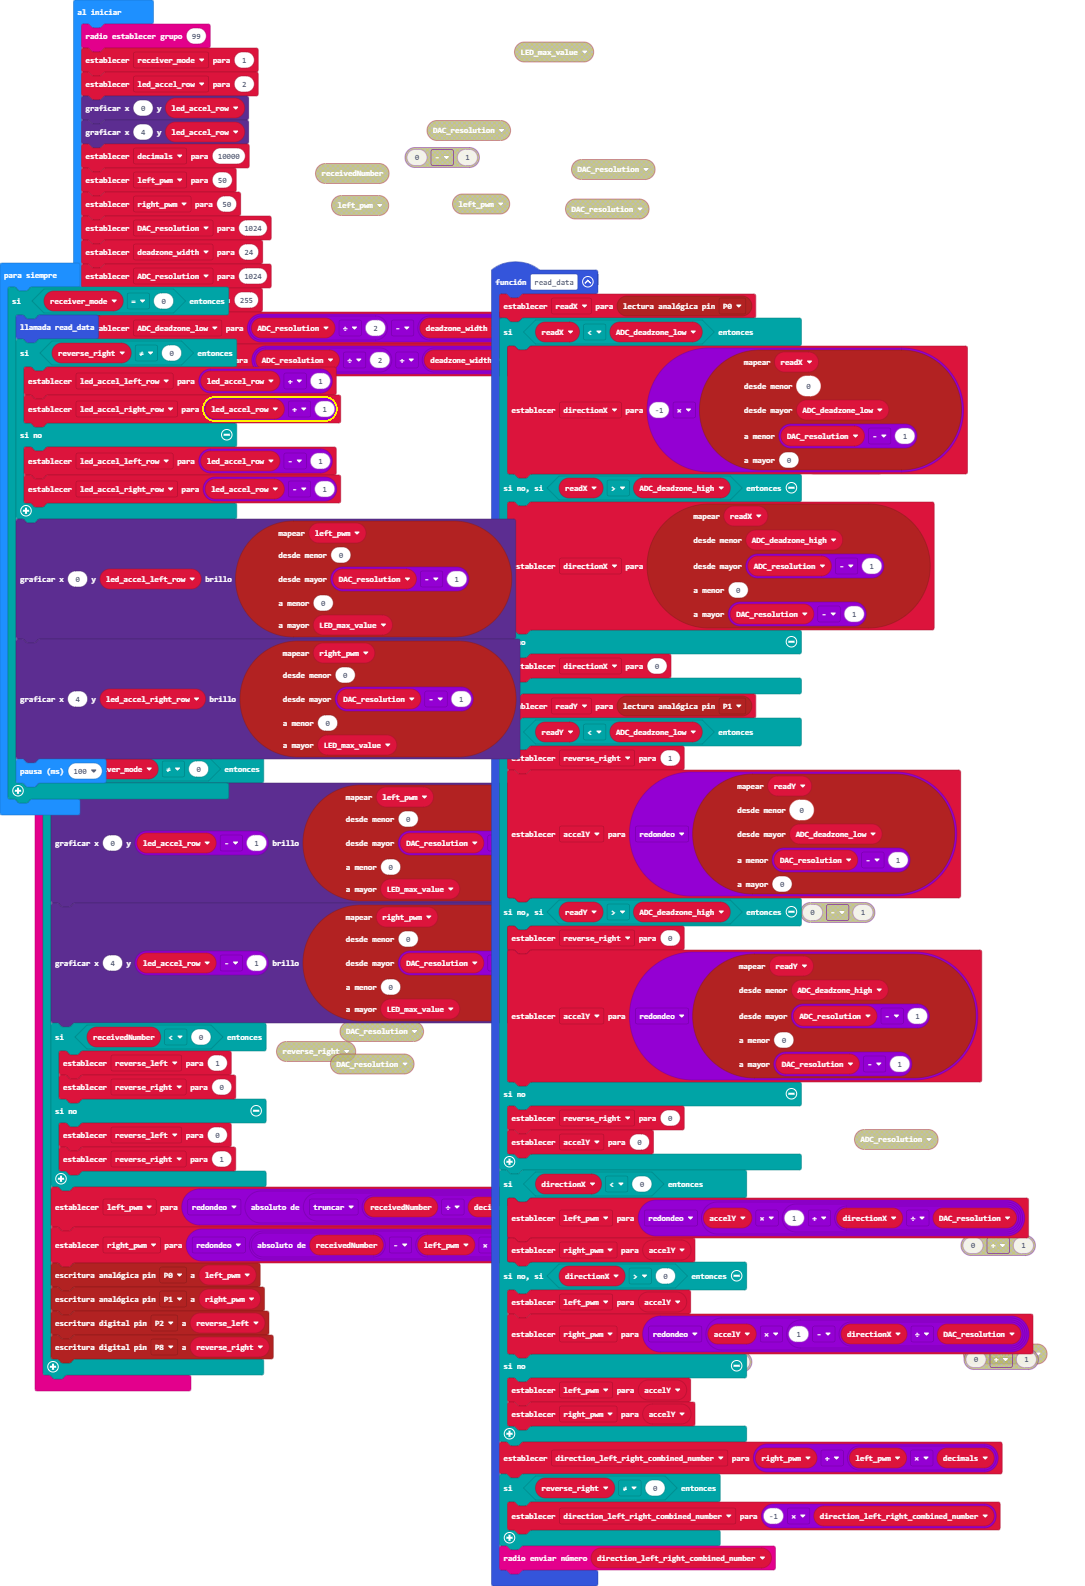
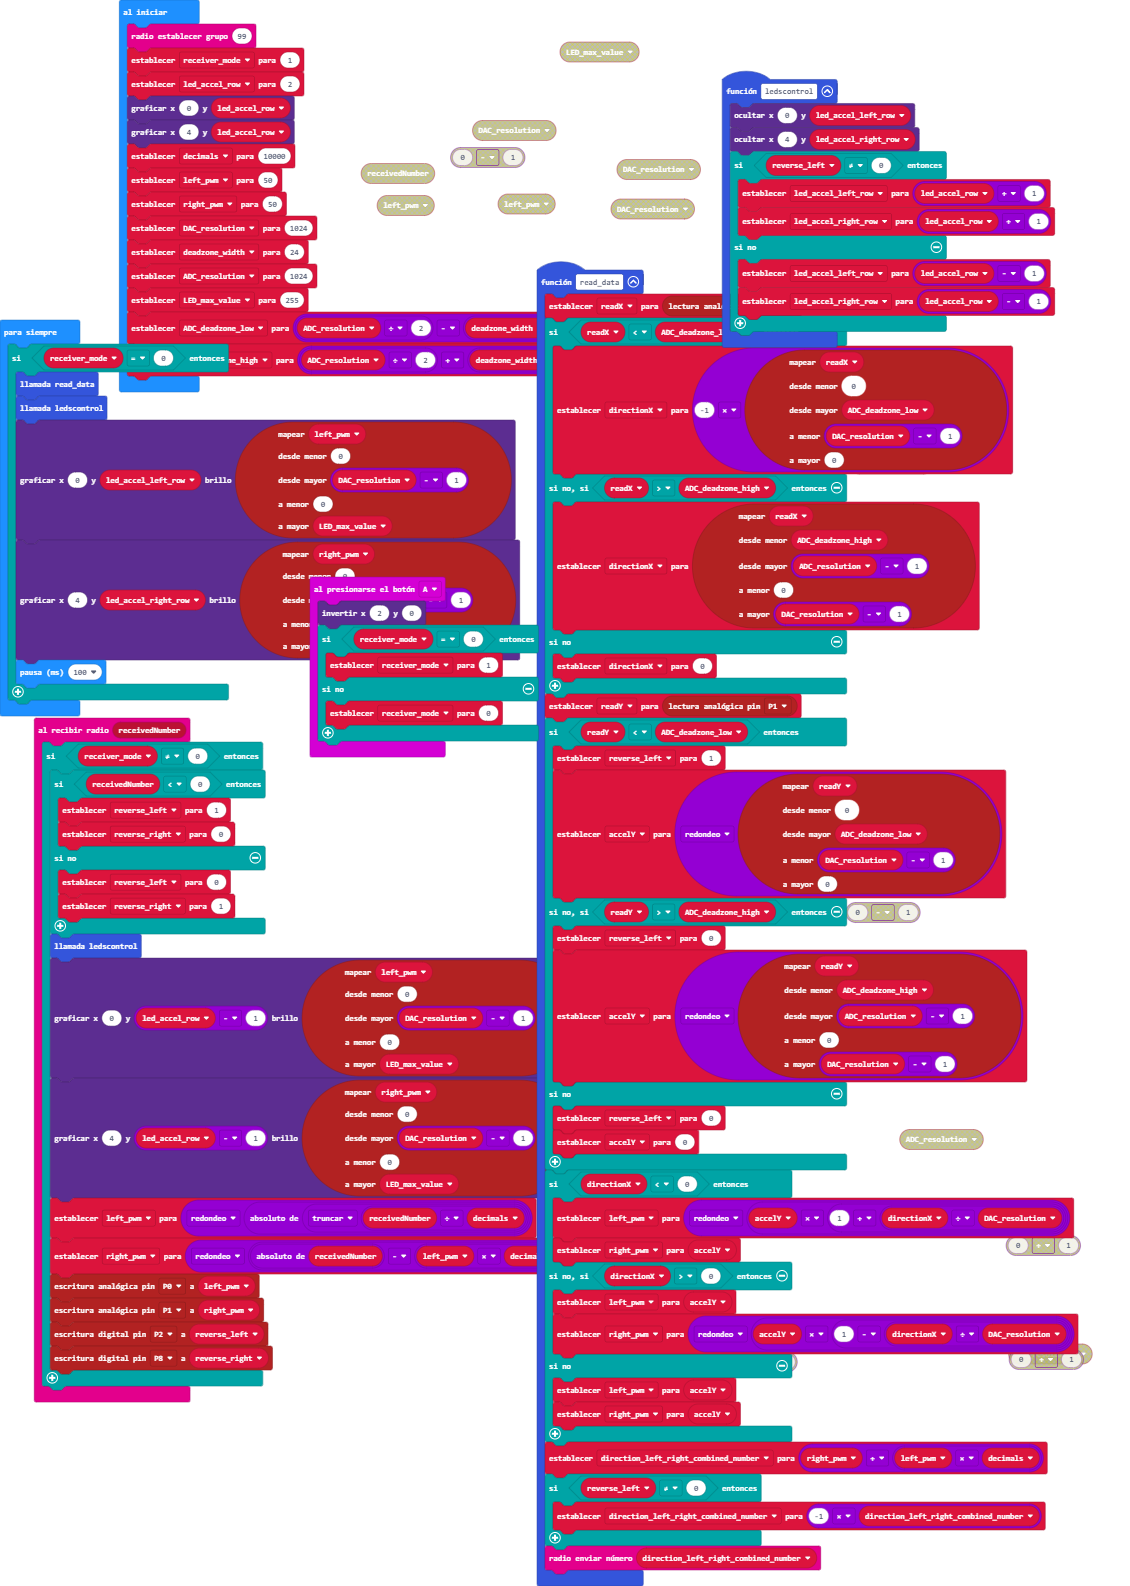
led control

diff --git a/main.ts b/main.ts
@@ -1,5 +1,13 @@
 radio.onReceivedNumber(function (receivedNumber) {
     if (receiver_mode != 0) {
+        if (receivedNumber < 0) {
+            reverse_left = 1
+            reverse_right = 0
+        } else {
+            reverse_left = 0
+            reverse_right = 1
+        }
+        ledscontrol()
         led.plotBrightness(0, led_accel_row - 1, pins.map(
         left_pwm,
         0,
@@ -14,13 +22,6 @@ radio.onReceivedNumber(function (receivedNumber) {
         0,
         LED_max_value
         ))
-        if (receivedNumber < 0) {
-            reverse_left = 1
-            reverse_right = 0
-        } else {
-            reverse_left = 0
-            reverse_right = 1
-        }
         left_pwm = Math.round(Math.abs(Math.trunc(receivedNumber / decimals)))
         right_pwm = Math.round(Math.abs(receivedNumber) - left_pwm * decimals)
         pins.analogWritePin(AnalogPin.P0, left_pwm)
@@ -60,7 +61,7 @@ function read_data () {
     }
     readY = pins.analogReadPin(AnalogPin.P1)
     if (readY < ADC_deadzone_low) {
-        reverse_right = 1
+        reverse_left = 1
         accelY = Math.round(pins.map(
         readY,
         0,
@@ -69,7 +70,7 @@ function read_data () {
         0
         ))
     } else if (readY > ADC_deadzone_high) {
-        reverse_right = 0
+        reverse_left = 0
         accelY = Math.round(pins.map(
         readY,
         ADC_deadzone_high,
@@ -78,7 +79,7 @@ function read_data () {
         DAC_resolution - 1
         ))
     } else {
-        reverse_right = 0
+        reverse_left = 0
         accelY = 0
     }
     if (directionX < 0) {
@@ -92,10 +93,21 @@ function read_data () {
         right_pwm = accelY
     }
     direction_left_right_combined_number = right_pwm + left_pwm * decimals
-    if (reverse_right != 0) {
+    if (reverse_left != 0) {
         direction_left_right_combined_number = -1 * direction_left_right_combined_number
     }
     radio.sendNumber(direction_left_right_combined_number)
+}
+function ledscontrol () {
+    led.unplot(0, led_accel_left_row)
+    led.unplot(4, led_accel_right_row)
+    if (reverse_left != 0) {
+        led_accel_left_row = led_accel_row + 1
+        led_accel_right_row = led_accel_row + 1
+    } else {
+        led_accel_left_row = led_accel_row - 1
+        led_accel_right_row = led_accel_row - 1
+    }
 }
 let led_accel_right_row = 0
 let led_accel_left_row = 0
@@ -133,13 +145,7 @@ ADC_deadzone_high = ADC_resolution / 2 + deadzone_width / 2
 basic.forever(function () {
     if (receiver_mode == 0) {
         read_data()
-        if (reverse_right != 0) {
-            led_accel_left_row = led_accel_row + 1
-            led_accel_right_row = led_accel_row + 1
-        } else {
-            led_accel_left_row = led_accel_row - 1
-            led_accel_right_row = led_accel_row - 1
-        }
+        ledscontrol()
         led.plotBrightness(0, led_accel_left_row, pins.map(
         left_pwm,
         0,
